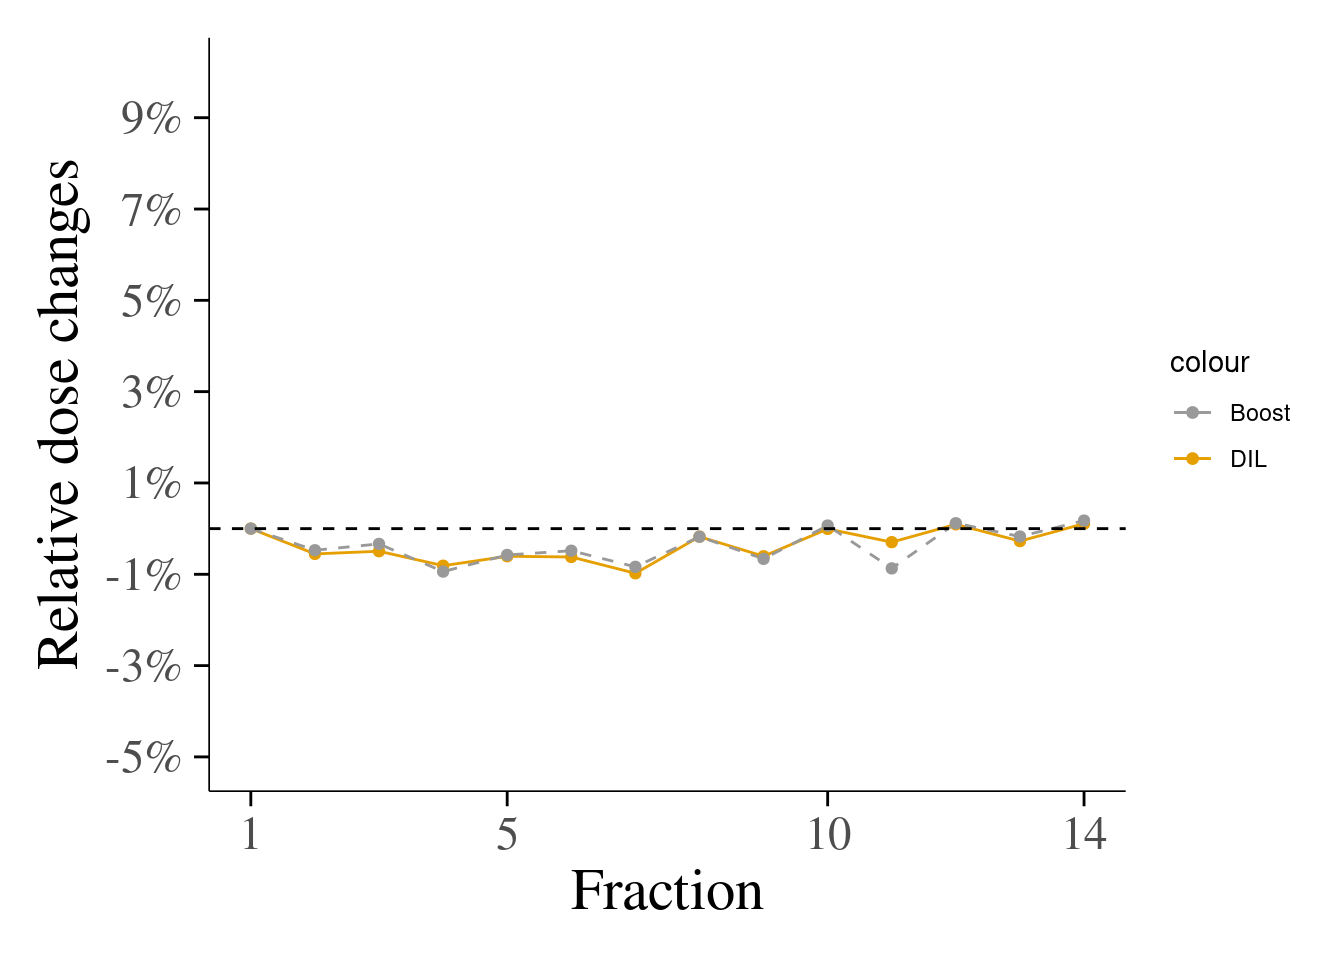
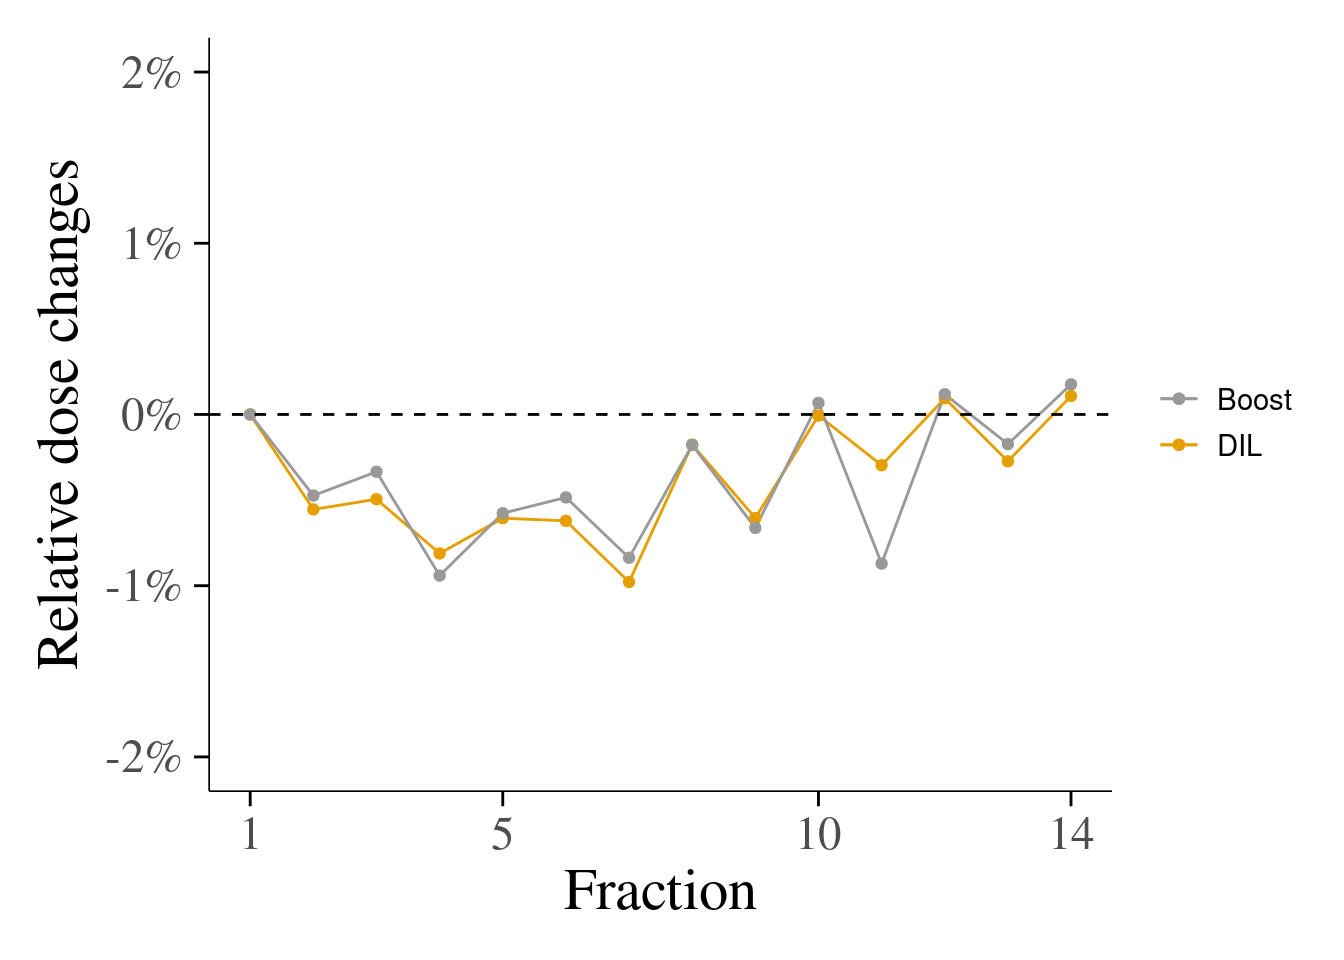
Build site.

diff --git a/docs/dilundboost.html b/docs/dilundboost.html
@@ -513,16 +513,16 @@ This reproducible <a href="http://rmarkdown.rstudio.com">R Markdown</a> analysis
 <div class="panel panel-default">
 <div class="panel-heading">
 <p class="panel-title">
-<a data-toggle="collapse" data-parent="#workflowr-checks" href="#strongRepositoryversionstrongahrefhttpsgithubcomdssrttnTesttree7fb629e92a16cd99351dce29dc0ac14184347901targetblank7fb629ea"> <span class="glyphicon glyphicon-ok text-success" aria-hidden="true"></span> <strong>Repository version:</strong> <a href="https://github.com/dssrttn/Test/tree/7fb629e92a16cd99351dce29dc0ac14184347901" target="_blank">7fb629e</a> </a>
+<a data-toggle="collapse" data-parent="#workflowr-checks" href="#strongRepositoryversionstrongahrefhttpsgithubcomdssrttnTesttreef0745b9103a66790a4661294d631d2aaad93261dtargetblankf0745b9a"> <span class="glyphicon glyphicon-ok text-success" aria-hidden="true"></span> <strong>Repository version:</strong> <a href="https://github.com/dssrttn/Test/tree/f0745b9103a66790a4661294d631d2aaad93261d" target="_blank">f0745b9</a> </a>
 </p>
 </div>
[2 lines of base64/hex data omitted]
 <div class="panel-body">
 <p>
 Great! You are using Git for version control. Tracking code development and connecting the code version to the results is critical for reproducibility.
 </p>
 <p>
-The results in this page were generated with repository version <a href="https://github.com/dssrttn/Test/tree/7fb629e92a16cd99351dce29dc0ac14184347901" target="_blank">7fb629e</a>. See the <em>Past versions</em> tab to see a history of the changes made to the R Markdown and HTML files.
+The results in this page were generated with repository version <a href="https://github.com/dssrttn/Test/tree/f0745b9103a66790a4661294d631d2aaad93261d" target="_blank">f0745b9</a>. See the <em>Past versions</em> tab to see a history of the changes made to the R Markdown and HTML files.
 </p>
 <p>
 Note that you need to be careful to ensure that all relevant files for the analysis have been committed to Git prior to generating the results (you can use <code>wflow_publish</code> or <code>wflow_git_commit</code>). workflowr only checks the R Markdown file, but you know if there are other scripts or data files that it depends on. Below is the status of the Git repository when the results were generated:
@@ -594,6 +594,40 @@ Message
 Rmd
 </td>
 <td>
+<a href="https://github.com/dssrttn/Test/blob/f0745b9103a66790a4661294d631d2aaad93261d/analysis/dilundboost.Rmd" target="_blank">f0745b9</a>
+</td>
+<td>
+Mein Vorname
+</td>
+<td>
+2020-07-19
+</td>
+<td>
+plot theme erstellt
+</td>
+</tr>
+<tr>
+<td>
+html
+</td>
+<td>
+<a href="https://rawcdn.githack.com/dssrttn/Test/7782f0672b38d0d300e36cebae1f0c1dd7b14d72/docs/dilundboost.html" target="_blank">7782f06</a>
+</td>
+<td>
+Mein Vorname
+</td>
+<td>
+2020-07-19
+</td>
+<td>
+Build site.
+</td>
+</tr>
+<tr>
+<td>
+Rmd
+</td>
+<td>
 <a href="https://github.com/dssrttn/Test/blob/7fb629e92a16cd99351dce29dc0ac14184347901/analysis/dilundboost.Rmd" target="_blank">7fb629e</a>
 </td>
 <td>
@@ -621,6 +655,30 @@ library(scales)
 library(knitr)
 library(kableExtra)
 options(digits=3) # zeigt nur drei Zahlenwerte an
+
+
+# The Color Universal Design from the University of Tokyo proposes the following palettes:
+# The palette with grey from:
+cbPalette &lt;- c(&quot;#999999&quot;, &quot;#E69F00&quot;, &quot;#56B4E9&quot;, &quot;#009E73&quot;, &quot;#F0E442&quot;, &quot;#0072B2&quot;, &quot;#D55E00&quot;, &quot;#CC79A7&quot;)
+   
+  plottheme &lt;- list(
+     theme_classic() +
+  theme(
+    legend.title = element_blank(),
+     legend.text = element_text(color = &quot;black&quot;, size = rel(1)),
+  plot.title =  element_blank(),  #element_text(color=&quot;black&quot;, size=14, face=&quot;bold.italic&quot;, family =&quot;serif&quot;), # Titel des Graphen
+  axis.text.x = element_text(margin = unit(c(1.5, 0, 0, 0), &quot;mm&quot;), family = &quot;serif&quot;, size=rel(2)), # X-Achsen-Bezeichnungs-Parameter
+  axis.text.y = element_text(margin = unit(c(0, 1.5, 0, 0), &quot;mm&quot;), family = &quot;serif&quot;, size=rel(2)), # Y-Achsen-Bezeichnungs-Parameter
+  axis.title.x = element_text(margin = unit(c(1.5, 0, 0, 0), &quot;mm&quot;), family = &quot;serif&quot;, size=rel(2)), 
+  # X-Achsen-Beschriftungs-(groß)-Parameter
+  axis.title.y = element_text(margin = unit(c(0, 2, 0, 0), &quot;mm&quot;), family = &quot;serif&quot;, size=rel(2)), # Y-Achsen-Beschriftungs-(groß)-Parameter
+  plot.margin = margin(0.5, 0.5, 0.5, 0.5, &quot;cm&quot;), # Abstände um den Graphen in top-right-bottom-left Orientierung
+  axis.ticks = element_line(color = &#39;black&#39;, size = 0.5, linetype = 1), axis.ticks.length = unit(0.2, &quot;cm&quot;), # Teilstriche
+  axis.line = element_line(color = &#39;black&#39;, size = 0.3, linetype = 1) # Achsenlinie
+   )
+  )
+
+
 
 DIL_mean_rel &lt;- read_csv2(&quot;data/DIL_1.csv&quot;) # read csv mit europaeischer Syntax. Auf das richtige package achten! 
 
@@ -1012,40 +1070,58 @@ relchange
 </tr>
 </tbody>
 </table>
-<pre class="r"><code># The Color Universal Design from the University of Tokyo proposes the following palettes:
-# The palette with grey from:
-cbPalette &lt;- c(&quot;#999999&quot;, &quot;#E69F00&quot;, &quot;#56B4E9&quot;, &quot;#009E73&quot;, &quot;#F0E442&quot;, &quot;#0072B2&quot;, &quot;#D55E00&quot;, &quot;#CC79A7&quot;)
-
-ggplot() + 
+<pre class="r"><code>ggplot() + 
   geom_line(data = DIL_mean_rel_table, aes(x = 1:14, y = DIL_mean_rel$relchange, color = &quot;DIL&quot;)) +
-  geom_line(data = Boost_mean_rel_table , linetype = &quot;dashed&quot;, aes(x = 1:14, y = Boost_mean_rel$relchange, color = &quot;Boost&quot;)) +
- 
+  geom_line(data = Boost_mean_rel_table , aes(x = 1:14, y = Boost_mean_rel$relchange, color = &quot;Boost&quot;)) +
  geom_point(data = DIL_mean_rel_table, aes(x = 1:14, y = DIL_mean_rel$relchange, color = &quot;DIL&quot;)) +
   geom_point(data = Boost_mean_rel_table , aes(x = 1:14, y = Boost_mean_rel$relchange, color = &quot;Boost&quot;)) +
-
-  scale_colour_manual(values=cbPalette) +  # To use for line and point colors, add
-
-  expand_limits(y = c(-5, 10)) +
-  scale_y_continuous(breaks = seq(-5, 10, 2.0), labels=function(x) paste0(x,&quot;%&quot;)) + #labels=function(x) paste0(x,&quot;%&quot;) adds percent symbol, but without multiplying it with 100, like when one does: scale_y_continuous(labels = scales::percent)
-  
+      scale_colour_manual(values=cbPalette) +  # To use for line and point colors, add
+   expand_limits(y = c(-2, 2)) +
+  scale_y_continuous(breaks = seq(-2, 2, 1.0), labels=function(x) paste0(x,&quot;%&quot;)) + #labels=function(x) paste0(x,&quot;%&quot;) adds percent symbol, but without multiplying it with 100, like when one does: scale_y_continuous(labels = scales::percent)
     scale_x_continuous(breaks = c(1,5,10,14))  + # adds only specific ticks
-  geom_abline(intercept = 0, slope = 0, lty=2) + # horizontale Linie ohne Steigung, da slope = 0 
-    theme_classic() +
-  theme(
-  plot.title =  element_blank(),  #element_text(color=&quot;black&quot;, size=14, face=&quot;bold.italic&quot;, family =&quot;serif&quot;), # Titel des Graphen
-  axis.text.x = element_text(margin = unit(c(1.5, 0, 0, 0), &quot;mm&quot;), family = &quot;serif&quot;, size=rel(2)), # X-Achsen-Bezeichnungs-Parameter
-  axis.text.y = element_text(margin = unit(c(0, 1.5, 0, 0), &quot;mm&quot;), family = &quot;serif&quot;, size=rel(2)), # Y-Achsen-Bezeichnungs-Parameter
-  axis.title.x = element_text(margin = unit(c(1.5, 0, 0, 0), &quot;mm&quot;), family = &quot;serif&quot;, size=rel(2)), 
-  # X-Achsen-Beschriftungs-(groß)-Parameter
-  axis.title.y = element_text(margin = unit(c(0, 2, 0, 0), &quot;mm&quot;), family = &quot;serif&quot;, size=rel(2)), # Y-Achsen-Beschriftungs-(groß)-Parameter
-  plot.margin = margin(0.5, 0.5, 0.5, 0.5, &quot;cm&quot;), # Abstände um den Graphen in top-right-bottom-left Orientierung
-  axis.ticks = element_line(color = &#39;black&#39;, size = 0.5, linetype = 1), axis.ticks.length = unit(0.2, &quot;cm&quot;), # Teilstriche
-  axis.line = element_line(color = &#39;black&#39;, size = 0.3, linetype = 1) # Achsenlinie
-   ) +
+      geom_abline(intercept = 0, slope = 0, lty=2) + # horizontale Linie ohne Steigung, da slope = 0 
   ggtitle(&quot;DIL - Relative dose changes in percent from the 1st fraction with DIL&quot;) +
   xlab(&quot;Fraction&quot;) + # X-Achsen-Beschriftung
-  ylab(&quot;Relative dose changes&quot;)   #+ # Y-Achsen-Beschriftung</code></pre>
+  ylab(&quot;Relative dose changes&quot;) +   #+ # Y-Achsen-Beschriftung
+  plottheme</code></pre>
 <p><img src="figure/dilundboost.Rmd/Relative%20dose%20changes%20in%20percen%20from%20the%201st%20fraction%20with%20DIL%20and%20boost%20mean%20lines-1.png" width="672" style="display: block; margin: auto;" /></p>
+<p>
+<button type="button" class="btn btn-default btn-xs btn-workflowr btn-workflowr-fig" data-toggle="collapse" data-target="#fig-no-spaces-Relative-dose-changes-in-percen-from-the-1st-fraction-with-DIL-and-boost-mean-lines-1">
+Past versions of “Relative dose changes in percen from the 1st fraction with DIL and boost mean lines-1.png”
+</button>
+</p>
+<div id="fig-no-spaces-Relative-dose-changes-in-percen-from-the-1st-fraction-with-DIL-and-boost-mean-lines-1" class="collapse">
+<div class="table-responsive">
+<table class="table table-condensed table-hover">
+<thead>
+<tr>
+<th>
+Version
+</th>
+<th>
+Author
+</th>
+<th>
+Date
+</th>
+</tr>
+</thead>
+<tbody>
+<tr>
+<td>
+<a href="https://github.com/dssrttn/Test/blob/7782f0672b38d0d300e36cebae1f0c1dd7b14d72/docs/figure/dilundboost.Rmd/Relative dose changes in percen from the 1st fraction with DIL and boost mean lines-1.png" target="_blank">7782f06</a>
+</td>
+<td>
+Mein Vorname
+</td>
+<td>
+2020-07-19
+</td>
+</tr>
+</tbody>
+</table>
+</div>
+</div>
 <br>
 <p>
 <button type="button" class="btn btn-default btn-workflowr btn-workflowr-sessioninfo" data-toggle="collapse" data-target="#workflowr-sessioninfo" style="display: block;">
